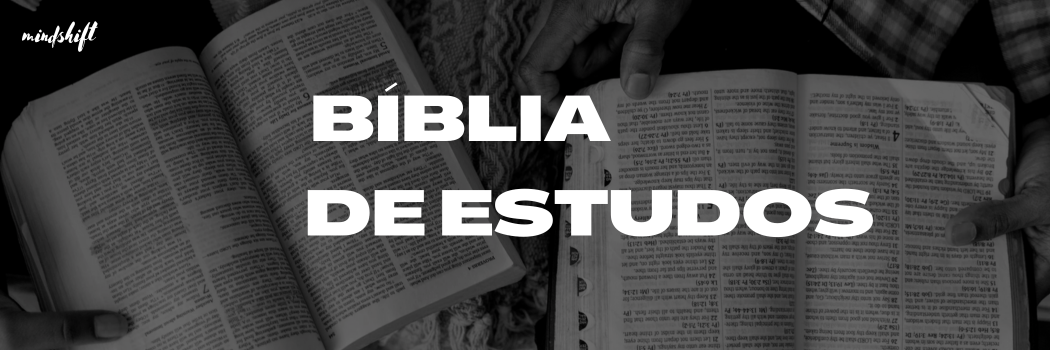
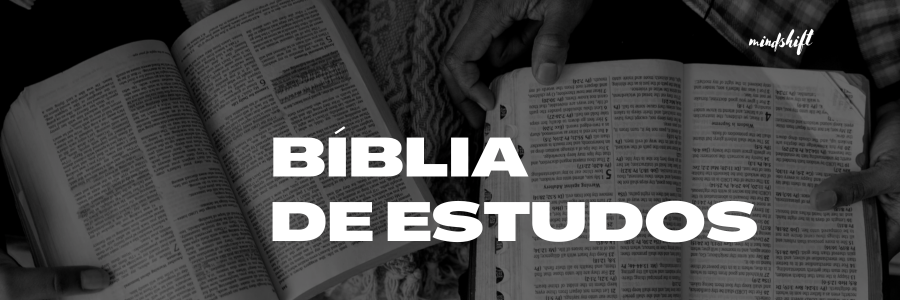
novas imagens

Changed region(s): [[0.28, 0.27, 0.84, 0.81], [0.8089, 0.09, 0.9022, 0.18], [0.0, 0.06, 0.0933, 0.15]]

diff --git a/css/estilo.css b/css/estilo.css
@@ -6,7 +6,7 @@ html, body {
 
 body{
     display: grid;
-    grid-template-rows: 360px 360px 1fr;
+    grid-template-rows: 350px 360px 1fr;
     grid-template-columns: 1fr;
     grid-gap: 3px;
 }
@@ -31,37 +31,13 @@ button {
 .box1 {
     width: 100%;
     height: 100%;
-    background-image: url(../img/1.png);
+    background-image: url(../img/5.png);
     background-repeat: no-repeat;
     background-size: cover;
     background-position: center center;
     grid-area: 1/1/2/4;
 }
 
-
-
-.top-header{
-background-color: #224934;
-padding: 20px 4%;
-}
-
-.top-header > .interface{
-display: flex;
-align-items: center;
-justify-content: space-between;
-
-}
-
-.top-header .btn-social button{
-margin: 5px;
-width: 50px;
-height: 50px;
-font-size: 20px;
-border-radius: 50%;
-background-color: #d5e2e2;
-border: 2px solid #d5e2e2;
-cursor: pointer;
-}
 
 /*==== Inicio da navegação e menus =====*/
 
